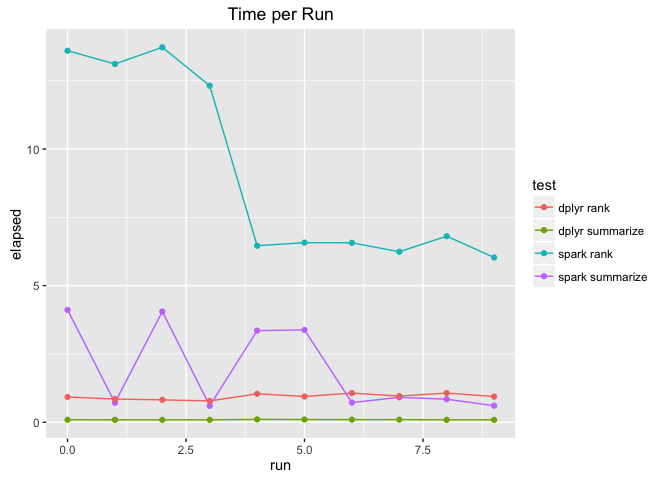
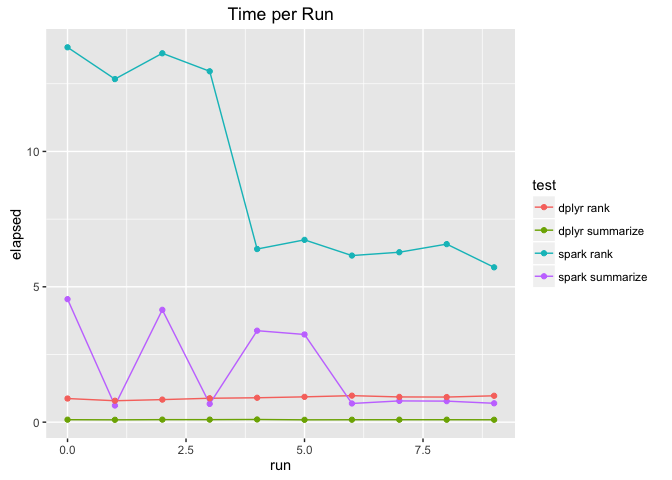
regenerate perf notebook with latest results

diff --git a/tests/perf/perf.md b/tests/perf/perf.md
@@ -5,7 +5,7 @@ Initialization
 --------------
 
 ``` r
-knitr::opts_chunk$set(warning = FALSE, cache = TRUE)
+knitr::opts_chunk$set(warning = FALSE, cache = FALSE)
 library(spark)
 library(dplyr)
 ```
@@ -159,14 +159,17 @@ results %>%
   dcast(params ~ test, value.var = "elapsed")
 ```
 
-    ##                          params dplyr summarize spark summarize
-    ## 1    1 local 1.6.0 FALSE INFO 0           0.088           4.136
-    ## 2 2 local[*] 1.6.0 FALSE INFO 0           0.103           3.629
-    ## 3 3 local[*] 1.6.0 FALSE WARN 0           0.088           3.265
-    ## 4  4 local[*] 1.6.0 TRUE WARN 0           0.091           0.633
-    ## 5  5 local[*] 1.6.0 TRUE WARN 8           0.090           0.862
-    ## 6  6 local[*] 2.0.0 TRUE WARN 8           0.087           0.901
-    ## 7  7 local[*] 2.0.0 TRUE WARN 0           0.091           0.606
+    ##                           params dplyr summarize spark summarize
+    ## 1     0 local 1.6.0 FALSE INFO 0           0.091           4.544
+    ## 2      1 local 1.6.0 TRUE INFO 0           0.086           0.614
+    ## 3     2 local 2.0.0 FALSE INFO 0           0.093           4.149
+    ## 4      3 local 2.0.0 TRUE INFO 0           0.093           0.675
+    ## 5  4 local[*] 1.6.0 FALSE INFO 0           0.099           3.379
+    ## 6  5 local[*] 1.6.0 FALSE WARN 0           0.086           3.239
+    ## 7   6 local[*] 1.6.0 TRUE WARN 0           0.089           0.690
+    ## 8   7 local[*] 1.6.0 TRUE WARN 8           0.090           0.785
+    ## 9   8 local[*] 2.0.0 TRUE WARN 8           0.090           0.777
+    ## 10  9 local[*] 2.0.0 TRUE WARN 0           0.088           0.697
 
 ``` r
 results %>%
@@ -174,14 +177,17 @@ results %>%
   dcast(params ~ test, value.var = "elapsed")
 ```
 
-    ##                          params dplyr rank spark rank
-    ## 1    1 local 1.6.0 FALSE INFO 0      0.827     13.257
-    ## 2 2 local[*] 1.6.0 FALSE INFO 0      0.991      6.431
-    ## 3 3 local[*] 1.6.0 FALSE WARN 0      0.900      6.220
-    ## 4  4 local[*] 1.6.0 TRUE WARN 0      0.940      6.792
-    ## 5  5 local[*] 1.6.0 TRUE WARN 8      1.024      6.704
-    ## 6  6 local[*] 2.0.0 TRUE WARN 8      1.026      7.022
-    ## 7  7 local[*] 2.0.0 TRUE WARN 0      0.966      6.065
+    ##                           params dplyr rank spark rank
+    ## 1     0 local 1.6.0 FALSE INFO 0      0.873     13.847
+    ## 2      1 local 1.6.0 TRUE INFO 0      0.791     12.674
+    ## 3     2 local 2.0.0 FALSE INFO 0      0.833     13.626
+    ## 4      3 local 2.0.0 TRUE INFO 0      0.883     12.961
+    ## 5  4 local[*] 1.6.0 FALSE INFO 0      0.901      6.395
+    ## 6  5 local[*] 1.6.0 FALSE WARN 0      0.935      6.734
+    ## 7   6 local[*] 1.6.0 TRUE WARN 0      0.979      6.154
+    ## 8   7 local[*] 1.6.0 TRUE WARN 8      0.932      6.277
+    ## 9   8 local[*] 2.0.0 TRUE WARN 8      0.927      6.577
+    ## 10  9 local[*] 2.0.0 TRUE WARN 0      0.974      5.720
 
 ``` r
 results %>%
